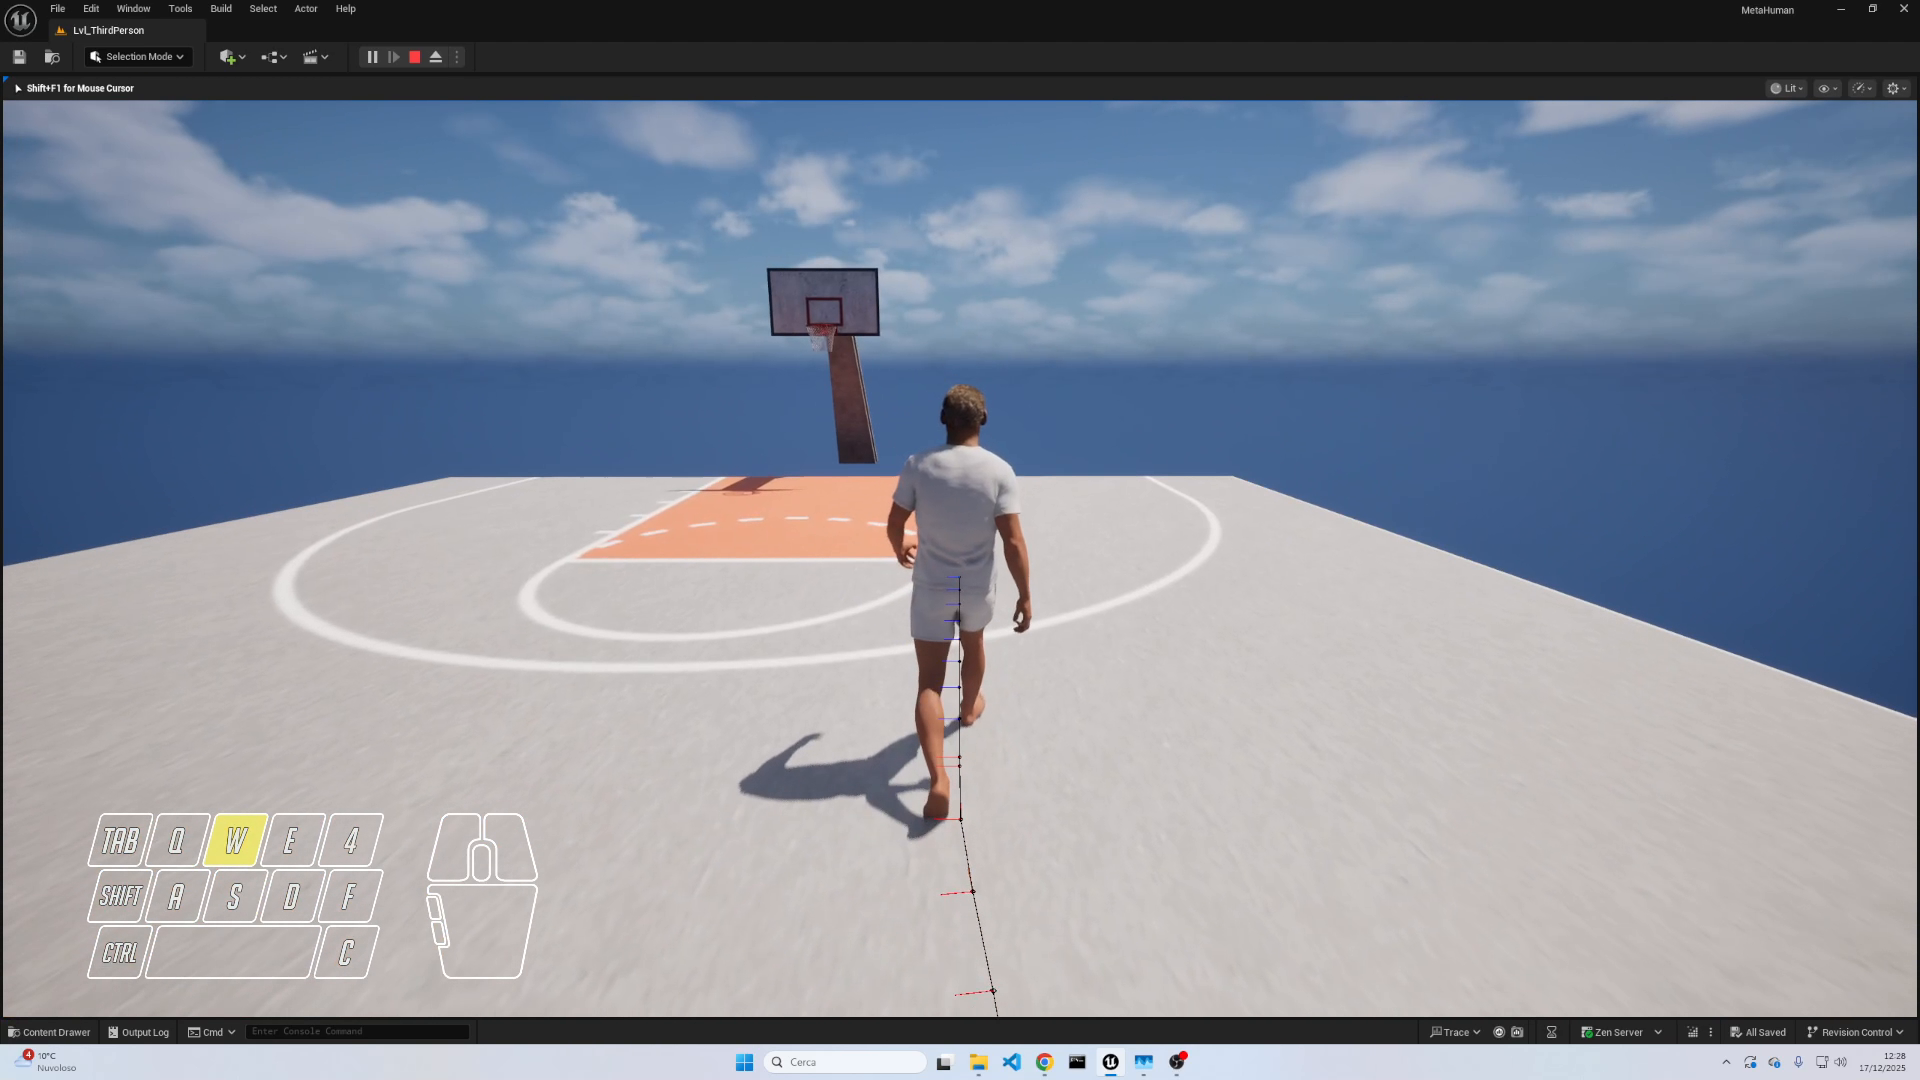
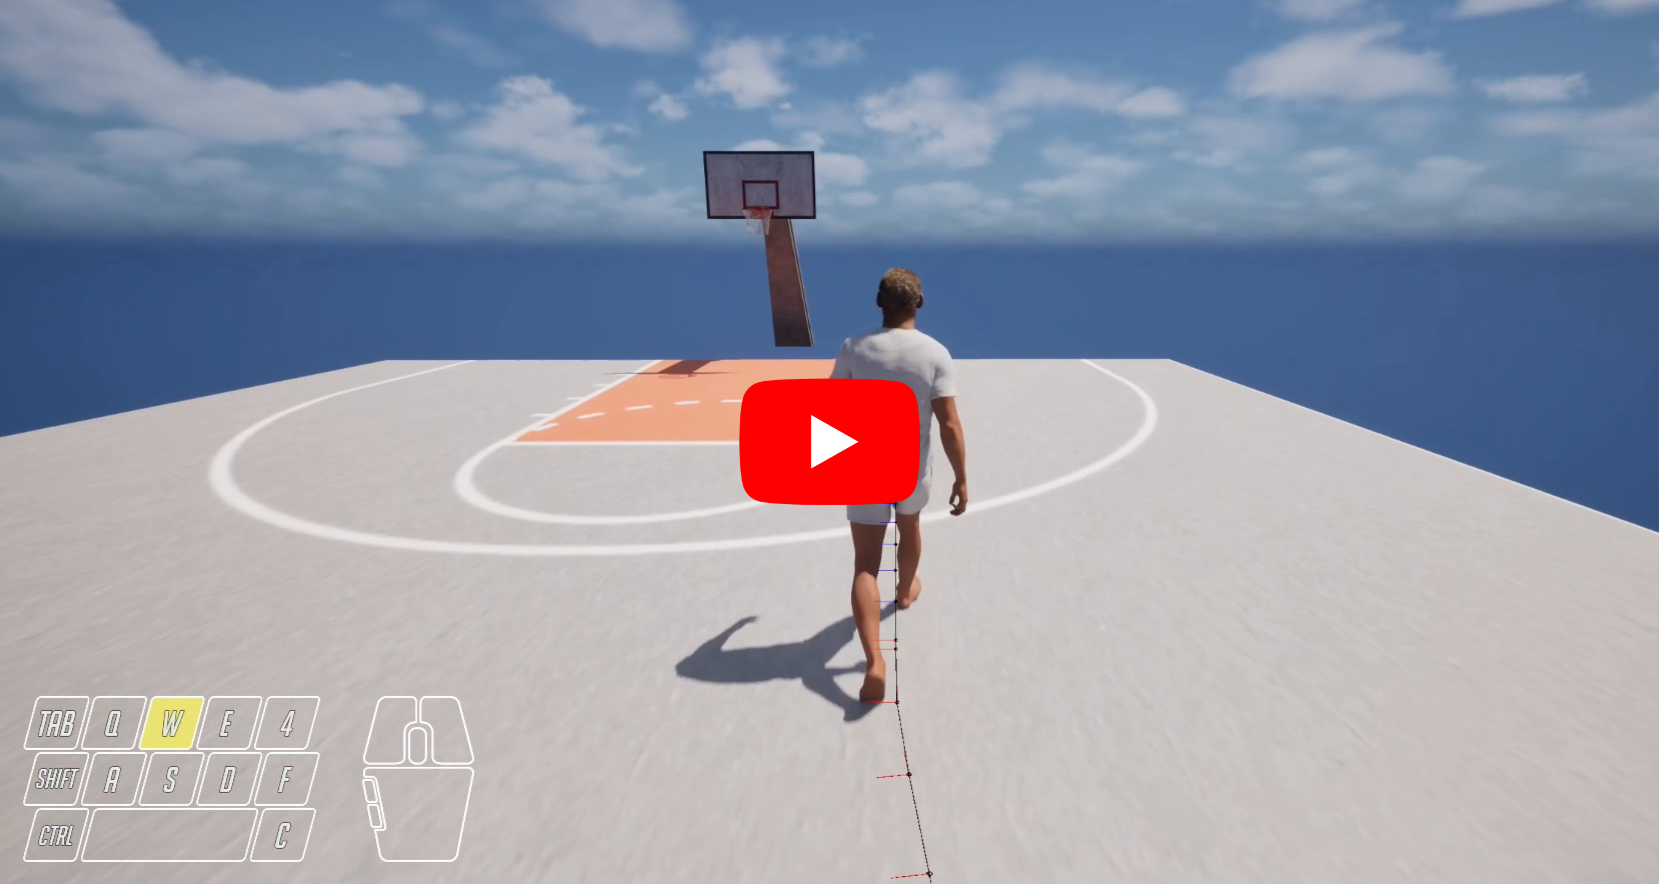
upload video cover

diff --git a/README.md b/README.md
@@ -13,6 +13,7 @@
 
 
 # 🎯 Project Goal
+This is the project of the Computer Graphics course of the University of Trento.  
 The purpose of this project is to become familiar with **Motion Matching**, **Retargeting** and  **MetaHuman** in **Unreal Engine 5**, exploring their workflows and practical applications in character animation.
 
 - **Motion Matching**: is an animation technique that dynamically selects the most appropriate animation pose from a large database of motion data in real time. Instead of relying on predefined animation states and transitions, the system continuously compares the character’s current pose and movement intent with the available animation data, resulting in smoother, more natural, and more responsive character movement.
@@ -73,20 +74,24 @@ Here we put only the most important files of our project:
 <p align="center">
   <img src="images/ABP_EventGraph.png" width="90%" />
 </p>
+
 9. Build the following graph in the AnimGraph in Animation BluePrint
 <p align="center">
   <img src="images/ABP_AnimGraph.png" width="90%" />
 </p>
+
 10. Build the following graph in the OnUpdate in Animation BluePrint
 <p align="center">
   <img src="images/ABP_OnUpdate.png" width="90%" />
 </p>
+
 11. Create a Chooser Table: chooser type: Animation Chooser, Anim Class: ABP_MQ; output: PoseSearchDatabase.  
     Fill the table with 5 row for every action (idle, walk, run, jump, crouch) and 3 column for speed, isFalling and is Crouching.
 12. Configure the table values to match the setup shown in the following image: 
 <p align="center">
   <img src="images/CHT_States.png" width="90%" />
 </p>
+
 13. add the following graph to the Third Person Controller:
 <p align="center">
   <img src="images/ThirtPersonContoller_EventGraph.png" width="90%" />
@@ -123,7 +128,14 @@ We tested all the movement imputs listed below:
 | **C**        | Crouch                                         |
 | **Mouse wheel** | Lock the character’s camera view            |
 
-[![IMAGE ALT TEXT](https://img.youtube.com/vi/V1mlI2HkONM/0.jpg)](https://www.youtube.com/watch?v=V1mlI2HkONM "Motion Matching Unreal Engine Demo")
+<p align="center">
+  <a href="https://www.youtube.com/watch?v=V1mlI2HkONM">
+    <img src="images/video_cover.png"
+         alt="Motion Matching Unreal Engine Demo"
+         style="width:90%; max-width:90%;" />
+  </a>
+</p>
+
 
 # 👥 Authors
 
